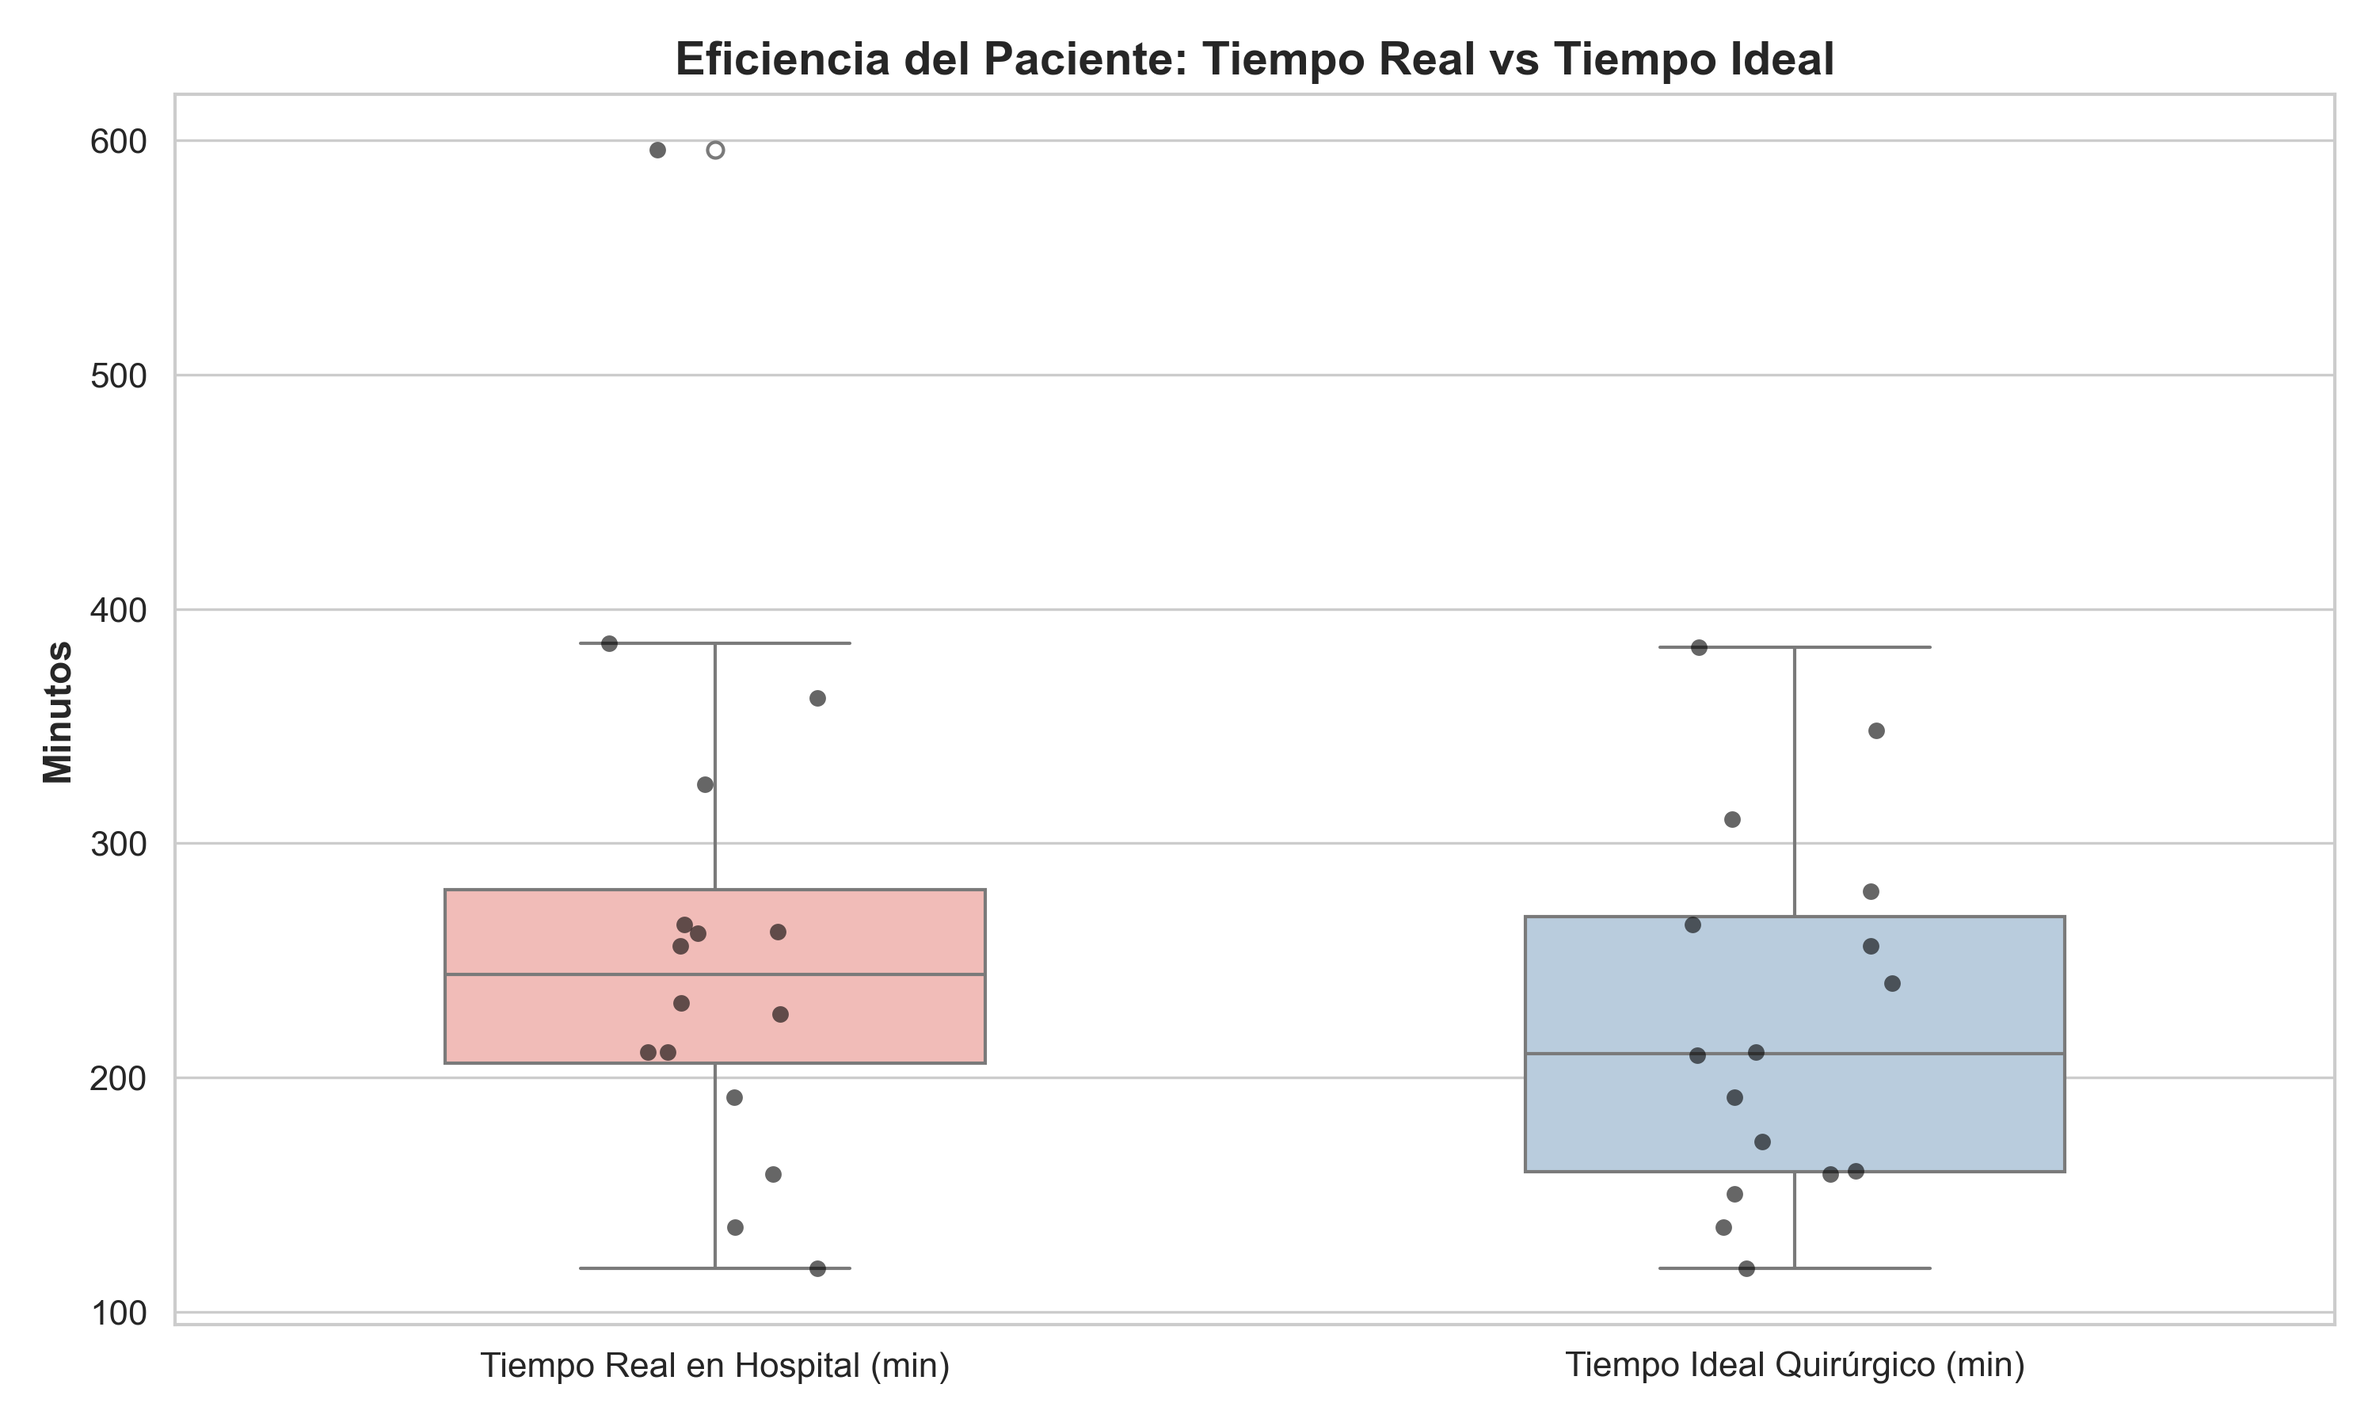
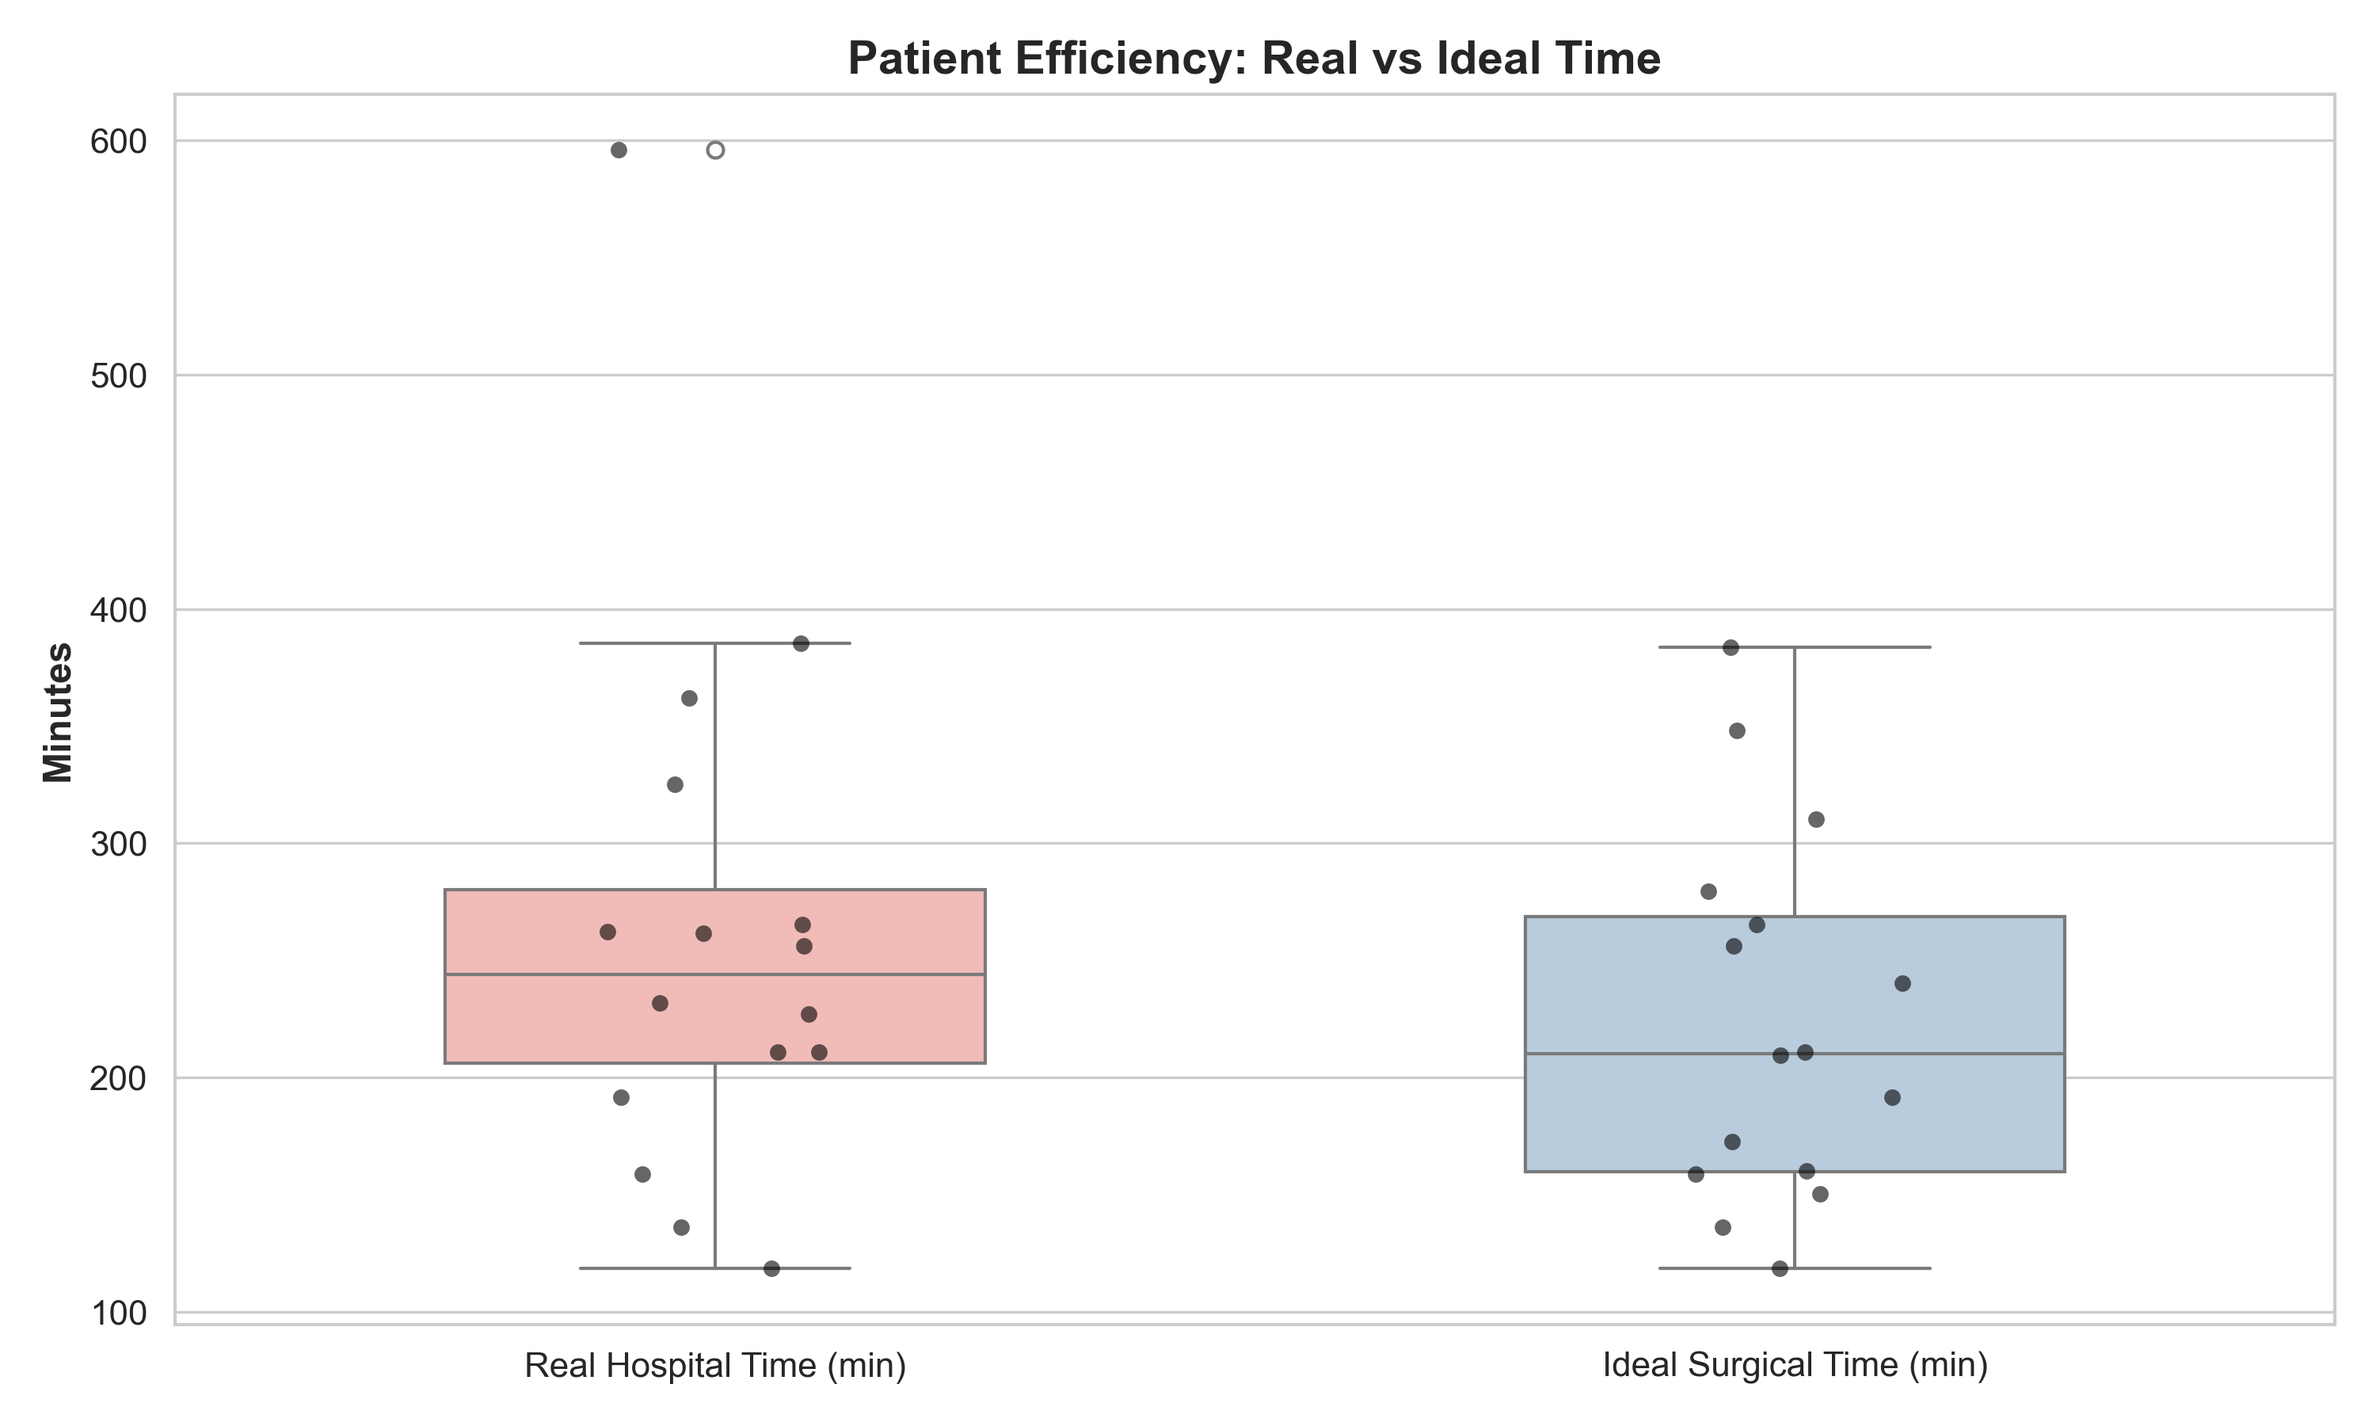
versionado en ingles paper

diff --git a/src/visualization.py b/src/visualization.py
@@ -37,10 +37,10 @@ def plot_advanced_gantt(df, makespan, J, setup_mins=10.0, output_path="data/proc
         if dur_med > 30:
             ax.text(start + setup + dur_med/2, y, f"P{j}", ha='center', va='center', color='white', fontweight='bold', fontsize=8)
 
-    # Leyenda
-    setup_patch = patches.Patch(color='#FFD700', alpha=0.8, label='Setup (Preparación Sala)')
-    med_patch = patches.Patch(color='gray', alpha=0.9, label='Cirugía / Intervención')
-    clean_patch = patches.Patch(color='#FF6347', alpha=0.8, label='Cleanup (Limpieza)')
+    # Legend
+    setup_patch = patches.Patch(color='#FFD700', alpha=0.8, label='Setup (Room Preparation)')
+    med_patch = patches.Patch(color='gray', alpha=0.9, label='Surgery / Intervention')
+    clean_patch = patches.Patch(color='#FF6347', alpha=0.8, label='Cleanup (Cleaning)')
     ax.legend(handles=[setup_patch, med_patch, clean_patch], loc='upper right', fontsize=12)
 
     ax.set_yticks(range(1, 13))
@@ -54,8 +54,8 @@ def plot_advanced_gantt(df, makespan, J, setup_mins=10.0, output_path="data/proc
     ax.axhline(y=4.5, color='black', linestyle='-', linewidth=2)
     ax.axhline(y=8.5, color='black', linestyle='-', linewidth=2)
     
-    ax.set_xlabel("Tiempo (Minutos)", fontsize=14, fontweight='bold')
-    ax.set_title(f"Planificación Quirúrgica Real (CINN + SA) - Makespan: {makespan:.0f} min\nDetalle Visual: Setup (10m) + Cirugía + Cleanup", fontsize=16)
+    ax.set_xlabel("Time (Minutes)", fontsize=14, fontweight='bold')
+    ax.set_title(f"Actual Surgical Planning (CINN + SA) - Makespan: {makespan:.0f} min\nVisual Detail: Setup (10m) + Surgery + Cleanup", fontsize=16)
     
     ax.set_xlim(-makespan*0.02, makespan * 1.02)
     ax.set_ylim(0.5, 12.5)
@@ -63,7 +63,7 @@ def plot_advanced_gantt(df, makespan, J, setup_mins=10.0, output_path="data/proc
     
     plt.tight_layout()
     plt.savefig(output_path, dpi=300)
-    print(f"Gráfico Gantt guardado en: {output_path}")
+    print(f"Gantt chart saved to: {output_path}")
     plt.close()
 
 #ploteo KPI de histogramas
@@ -86,7 +86,7 @@ def plot_wait_histograms(df, output_path="data/processed/esperas_histograma.png"
         waits_dict[(stage_curr, stage_next)] = delays
 
     colors = ['#2ca02c', '#1f77b4']
-    stage_names = {0: "Preoperatorio", 1: "Quirófano", 2: "Postoperatorio"}
+    stage_names = {0: "Preoperative", 1: "Operating Room", 2: "Postoperative"}
 
     fig, axes = plt.subplots(1, len(waits_dict), figsize=(12, 5), sharey=True)
     if len(waits_dict) == 1: axes = [axes]
@@ -97,25 +97,25 @@ def plot_wait_histograms(df, output_path="data/processed/esperas_histograma.png"
         ax.hist(arr, bins=10, alpha=0.75, color=colors[idx % len(colors)], edgecolor='black')
         
         mean_val = np.mean(arr)
-        ax.axvline(mean_val, color='red', linestyle='--', linewidth=2, label=f"Media: {mean_val:.1f} min")
-        
-        ax.set_title(f"Esperas: {stage_names.get(i)} $\\to$ {stage_names.get(ip1)}")
-        ax.set_xlabel("Tiempo de Espera (min)")
-        if idx == 0: ax.set_ylabel("Frecuencia")
+        ax.axvline(mean_val, color='red', linestyle='--', linewidth=2, label=f"Mean: {mean_val:.1f} min")
+
+        ax.set_title(f"Wait Times: {stage_names.get(i)} $\\to$ {stage_names.get(ip1)}")
+        ax.set_xlabel("Wait Time (min)")
+        if idx == 0: ax.set_ylabel("Frequency")
         ax.legend()
         ax.grid(axis='y', linestyle=':', alpha=0.4)
 
-    plt.suptitle("Distribución de Tiempos Muertos del Paciente", fontsize=14)
+    plt.suptitle("Distribution of Patient Idle Times", fontsize=14)
     plt.tight_layout()
     plt.savefig(output_path, dpi=300)
-    print(f"Histogramas guardados en: {output_path}")
+    print(f"Histograms saved to: {output_path}")
     plt.close()
 
 def generar_estadisticas_bai(csv_path="data/processed/solucion_final_optimizada.csv"):
     try:
         df = pd.read_csv(csv_path)
     except FileNotFoundError:
-        print(f"Error: No se encontró {csv_path}. Ejecuta el modelo primero.")
+        print(f"Error: {csv_path} not found. Run the model first.")
         return
 
     makespan = df['real_end'].max()
@@ -134,10 +134,10 @@ def generar_estadisticas_bai(csv_path="data/processed/solucion_final_optimizada.
         start_post = paciente_df[paciente_df['stage_id'] == 2]['real_start'].values
         
         if len(end_pre)>0 and len(start_qx)>0:
-            waits.append({'job_id': j, 'Fase': 'PRE -> QX', 'Espera (min)': start_qx[0] - end_pre[0]})
-            
+            waits.append({'job_id': j, 'Phase': 'PRE -> QX', 'Wait (min)': start_qx[0] - end_pre[0]})
+
         if len(end_qx)>0 and len(start_post)>0:
-            waits.append({'job_id': j, 'Fase': 'QX -> POST', 'Espera (min)': start_post[0] - end_qx[0]})
+            waits.append({'job_id': j, 'Phase': 'QX -> POST', 'Wait (min)': start_post[0] - end_qx[0]})
             
     df_waits = pd.DataFrame(waits)
 
@@ -152,7 +152,7 @@ def generar_estadisticas_bai(csv_path="data/processed/solucion_final_optimizada.
         tiempo_trabajo = df_maq['dur_medical'].sum()
         utilizacion_pct = (tiempo_trabajo / makespan) * 100
         etapa = m.split('-')[0] # Extrae "PRE", "QX" o "POST"
-        utilization.append({'Recurso': m, 'Etapa': etapa, 'Utilización (%)': utilizacion_pct})
+        utilization.append({'Resource': m, 'Stage': etapa, 'Utilization (%)': utilizacion_pct})
         
     df_util = pd.DataFrame(utilization)
 
@@ -160,18 +160,18 @@ def generar_estadisticas_bai(csv_path="data/processed/solucion_final_optimizada.
     # FIGURA 1: Histograma y KDE de Esperas (Bai Style)
     # =========================================================
     fig1, ax1 = plt.subplots(figsize=(10, 6))
-    sns.histplot(data=df_waits, x='Espera (min)', hue='Fase', kde=True, 
+    sns.histplot(data=df_waits, x='Wait (min)', hue='Phase', kde=True,
                  palette=['#1f77b4', '#ff7f0e'], bins=15, alpha=0.6, ax=ax1)
     
-    ax1.set_title("Distribución de Tiempos de Espera entre Etapas Quirúrgicas", fontweight='bold', fontsize=14)
-    ax1.set_xlabel("Tiempo de Espera (Minutos)", fontweight='bold')
-    ax1.set_ylabel("Frecuencia (N° Pacientes)", fontweight='bold')
+    ax1.set_title("Distribution of Wait Times Between Surgical Stages", fontweight='bold', fontsize=14)
+    ax1.set_xlabel("Wait Time (Minutes)", fontweight='bold')
+    ax1.set_ylabel("Frequency (N° Patients)", fontweight='bold')
     
     # --- CORRECCIÓN AQUÍ: Uso de PRE, QX y POST ---
-    mean_pre_qx = df_waits[df_waits['Fase'] == 'PRE -> QX']['Espera (min)'].mean()
-    mean_qx_post = df_waits[df_waits['Fase'] == 'QX -> POST']['Espera (min)'].mean()
-    ax1.axvline(mean_pre_qx, color='#1f77b4', linestyle='--', label=f'Media PRE->QX: {mean_pre_qx:.1f}m')
-    ax1.axvline(mean_qx_post, color='#ff7f0e', linestyle='--', label=f'Media QX->POST: {mean_qx_post:.1f}m')
+    mean_pre_qx = df_waits[df_waits['Phase'] == 'PRE -> QX']['Wait (min)'].mean()
+    mean_qx_post = df_waits[df_waits['Phase'] == 'QX -> POST']['Wait (min)'].mean()
+    ax1.axvline(mean_pre_qx, color='#1f77b4', linestyle='--', label=f'Mean PRE->QX: {mean_pre_qx:.1f}m')
+    ax1.axvline(mean_qx_post, color='#ff7f0e', linestyle='--', label=f'Mean QX->POST: {mean_qx_post:.1f}m')
     ax1.legend()
     
     plt.tight_layout()
@@ -182,15 +182,15 @@ def generar_estadisticas_bai(csv_path="data/processed/solucion_final_optimizada.
     # FIGURA 2: Boxplot de Balanceo de Carga (Load Balancing)
     # =========================================================
     fig2, ax2 = plt.subplots(figsize=(10, 6))
-    
+
     # Boxplot para mostrar la dispersión por etapa
 # Cambia a esto:
-    sns.boxplot(data=df_util, x='Etapa', y='Utilización (%)', hue='Etapa', legend=False, palette="Set2", width=0.5, ax=ax2, boxprops=dict(alpha=0.8))    # Stripplot para mostrar los puntos individuales (cada pabellón)
-    sns.stripplot(data=df_util, x='Etapa', y='Utilización (%)', color='black', alpha=0.7, jitter=True, size=8, ax=ax2)
+    sns.boxplot(data=df_util, x='Stage', y='Utilization (%)', hue='Stage', legend=False, palette="Set2", width=0.5, ax=ax2, boxprops=dict(alpha=0.8))    # Stripplot para mostrar los puntos individuales (cada pabellón)
+    sns.stripplot(data=df_util, x='Stage', y='Utilization (%)', color='black', alpha=0.7, jitter=True, size=8, ax=ax2)
     
-    ax2.set_title("Balanceo de Carga (Load Balancing) por Etapa", fontweight='bold', fontsize=14)
-    ax2.set_xlabel("Fase Clínica", fontweight='bold')
-    ax2.set_ylabel("Utilización del Recurso (%) sobre el Makespan", fontweight='bold')
+    ax2.set_title("Load Balancing per Stage", fontweight='bold', fontsize=14)
+    ax2.set_xlabel("Clinical Phase", fontweight='bold')
+    ax2.set_ylabel("Resource Utilization (%) over Makespan", fontweight='bold')
     ax2.set_ylim(0, 100)
     
     plt.tight_layout()
@@ -208,35 +208,35 @@ def generar_estadisticas_bai(csv_path="data/processed/solucion_final_optimizada.
         tiempo_ideal = paciente_df['dur_medical'].sum()
         
         flow_times.append({
-            'Paciente': f"P{j}",
-            'Tiempo Real en Hospital (min)': fin_absoluto - inicio_absoluto,
-            'Tiempo Ideal Quirúrgico (min)': tiempo_ideal
+            'Patient': f"P{j}",
+            'Real Hospital Time (min)': fin_absoluto - inicio_absoluto,
+            'Ideal Surgical Time (min)': tiempo_ideal
         })
         
     df_flow = pd.DataFrame(flow_times)
-    df_melted = df_flow.melt(id_vars=['Paciente'], var_name='Métrica', value_name='Minutos')
+    df_melted = df_flow.melt(id_vars=['Patient'], var_name='Metric', value_name='Minutes')
 
     fig3, ax3 = plt.subplots(figsize=(10, 6))
     # Cambia a esto:
-    sns.boxplot(data=df_melted, x='Métrica', y='Minutos', hue='Métrica', legend=False, palette="Pastel1", width=0.5, ax=ax3)
-    sns.stripplot(data=df_melted, x='Métrica', y='Minutos', color='black', alpha=0.6, jitter=True, ax=ax3)
-    
-    ax3.set_title("Eficiencia del Paciente: Tiempo Real vs Tiempo Ideal", fontweight='bold', fontsize=14)
+    sns.boxplot(data=df_melted, x='Metric', y='Minutes', hue='Metric', legend=False, palette="Pastel1", width=0.5, ax=ax3)
+    sns.stripplot(data=df_melted, x='Metric', y='Minutes', color='black', alpha=0.6, jitter=True, ax=ax3)
+
+    ax3.set_title("Patient Efficiency: Real vs Ideal Time", fontweight='bold', fontsize=14)
     ax3.set_xlabel("", fontweight='bold')
-    ax3.set_ylabel("Minutos", fontweight='bold')
+    ax3.set_ylabel("Minutes", fontweight='bold')
     
     plt.tight_layout()
     plt.savefig("data/processed/fig3_boxplot_flow_time.png", dpi=300)
     plt.show()
 
     # --- CORRECCIÓN AQUÍ: Uso de PRE, QX y POST ---
-    print("================ RESUMEN ESTADÍSTICO ================")
-    print(f"Makespan Total: {makespan:.2f} min")
-    print(f"Espera Promedio PRE -> QX: {mean_pre_qx:.2f} min")
-    print(f"Espera Promedio QX -> POST: {mean_qx_post:.2f} min")
-    print(f"Utilización Promedio PRE: {df_util[df_util['Etapa']=='PRE']['Utilización (%)'].mean():.1f}%")
-    print(f"Utilización Promedio QX: {df_util[df_util['Etapa']=='QX']['Utilización (%)'].mean():.1f}%")
-    print(f"Utilización Promedio POST: {df_util[df_util['Etapa']=='POST']['Utilización (%)'].mean():.1f}%")
+    print("================ STATISTICAL SUMMARY ================")
+    print(f"Total Makespan: {makespan:.2f} min")
+    print(f"Average Wait PRE -> QX: {mean_pre_qx:.2f} min")
+    print(f"Average Wait QX -> POST: {mean_qx_post:.2f} min")
+    print(f"Average Utilization PRE: {df_util[df_util['Stage']=='PRE']['Utilization (%)'].mean():.1f}%")
+    print(f"Average Utilization QX: {df_util[df_util['Stage']=='QX']['Utilization (%)'].mean():.1f}%")
+    print(f"Average Utilization POST: {df_util[df_util['Stage']=='POST']['Utilization (%)'].mean():.1f}%")
     print("===================================================================")
 
 def plot_convergence_curve(history_data, output_path="data/processed/convergencia_primal_dual.png"):
@@ -247,17 +247,17 @@ def plot_convergence_curve(history_data, output_path="data/processed/convergenci
 
     # EJE Y IZQUIERDO: Makespan (Azul)
     color1 = '#1f77b4' # Azul científico
-    ax1.set_xlabel('Iteraciones de Entrenamiento (Steps)', fontweight='bold', fontsize=12)
-    ax1.set_ylabel('Makespan Predicho (Minutos)', color=color1, fontweight='bold', fontsize=12)
-    line1 = ax1.plot(df['step'], df['makespan'], color=color1, label='Makespan (Eficiencia)', linewidth=2.5)
+    ax1.set_xlabel('Training Iterations (Steps)', fontweight='bold', fontsize=12)
+    ax1.set_ylabel('Predicted Makespan (Minutes)', color=color1, fontweight='bold', fontsize=12)
+    line1 = ax1.plot(df['step'], df['makespan'], color=color1, label='Makespan (Efficiency)', linewidth=2.5)
     ax1.tick_params(axis='y', labelcolor=color1)
     ax1.grid(True, axis='x', linestyle='--', alpha=0.7)
 
     # EJE Y DERECHO: Violación KKT (Rojo)
     ax2 = ax1.twinx()  # Instanciar un segundo eje que comparte el mismo eje X
     color2 = '#d62728' # Rojo científico
-    ax2.set_ylabel('Violación Máxima de Restricciones KKT', color=color2, fontweight='bold', fontsize=12)
-    line2 = ax2.plot(df['step'], df['violation'], color=color2, label='Violaciones (Factibilidad)', linewidth=2.5, alpha=0.85)
+    ax2.set_ylabel('Maximum KKT Constraint Violation', color=color2, fontweight='bold', fontsize=12)
+    line2 = ax2.plot(df['step'], df['violation'], color=color2, label='Violations (Feasibility)', linewidth=2.5, alpha=0.85)
     ax2.tick_params(axis='y', labelcolor=color2)
     
     # Escala Logarítmica (Simétrica) para el eje de violaciones porque los números son muy grandes
@@ -268,8 +268,8 @@ def plot_convergence_curve(history_data, output_path="data/processed/convergenci
     labels = [l.get_label() for l in lines]
     ax1.legend(lines, labels, loc='upper center', bbox_to_anchor=(0.5, -0.15), ncol=2, frameon=False, fontsize=12)
 
-    plt.title('Curva de Convergencia Primal-Dual de la Red CINN', fontweight='bold', fontsize=14)
+    plt.title('Primal-Dual Convergence Curve of CINN Network', fontweight='bold', fontsize=14)
     plt.tight_layout()
     plt.savefig(output_path, dpi=300, bbox_inches='tight')
-    print(f"Curva de convergencia guardada en: {output_path}")
+    print(f"Convergence curve saved to: {output_path}")
     plt.close()
